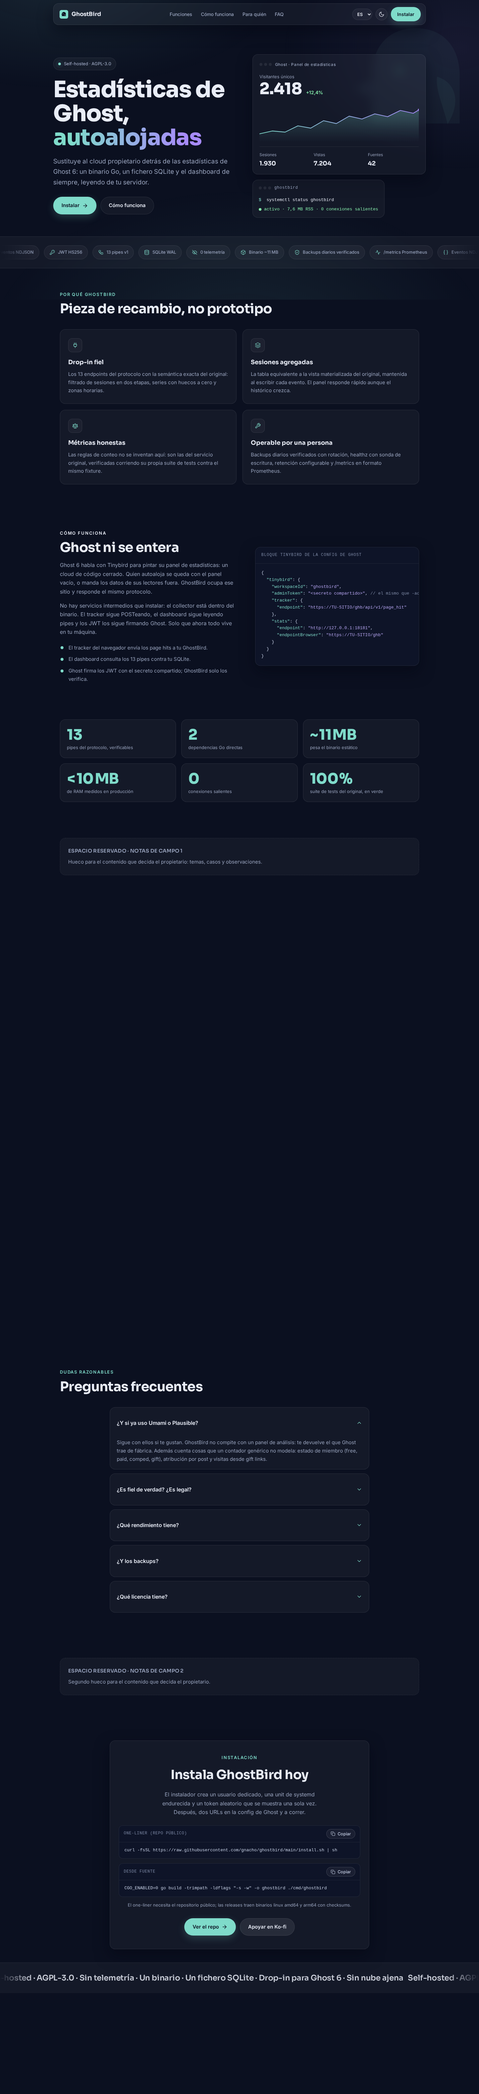
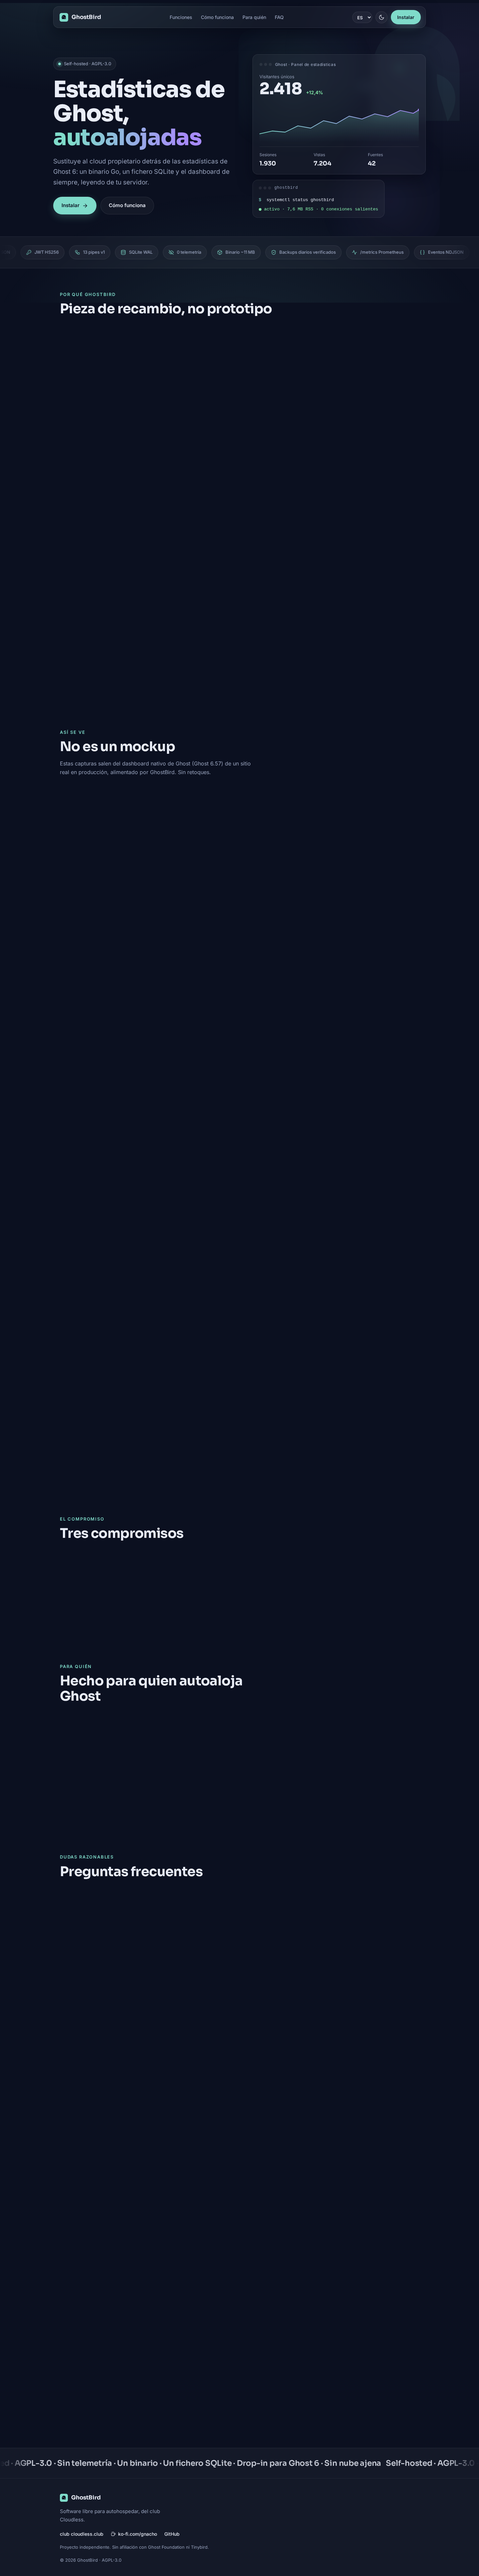
docs(landing): DESIGN.md con el sistema de motion y la galeria; screenshot nuevo
Seccion Motion (Phase 3): personalidad Premium/Corporate, variables,
tabla de grupos con stagger y presupuestos, capas de motion, decision
de no animar sombras, reduced-motion y lightbox. Galeria documentada
en la tabla Luminex y en SEO (ImageObject). Screenshot fullPage
regenerado (1440x7737, dark ES).

diff --git a/landing/DESIGN.md b/landing/DESIGN.md
@@ -21,6 +21,7 @@ Fuente de verdad visual de la landing. Si CSS y este fichero divergen, manda est
 | Logo marquee de clientes | Marquee de "protocol facts" (chips glass con icono Lucide): NDJSON, JWT HS256, 13 pipes, SQLite WAL, 0 telemetría, ~11 MB, backups, /metrics |
 | "A strong foundation" features | Grid 2x2 de feature cards glass: Drop-in fiel / Sesiones agregadas / Métricas honestas / Operable por una persona |
 | Split texto+visual | "Ghost ni se entera": texto a la izquierda, config tinybird JSON en card glass oscura con sintaxis coloreada a la derecha |
+| Galería de capturas | "No es un mockup": 2 capturas reales del dashboard nativo de Ghost (Ghost 6.57) en producción, cards glass con marco browser (3 dots + dominio), lazy loading y lightbox accesible |
 | Stats counters | 6 contadores con count-up al entrar en viewport (IntersectionObserver): 13 pipes, 2 deps Go, ~11 MB, <10 MB RAM, 0 salientes, 100% tests |
 | Statement tipográfico grande | "El panel de analytics que ya tienes, alimentado por tu servidor." con gradiente en "ya tienes" |
 | Expertise 3 columnas | Tres compromisos: AGPL para siempre / Community driven / Los datos no salen |
@@ -58,10 +59,66 @@ Fuente de verdad visual de la landing. Si CSS y este fichero divergen, manda est
   gigante flotando en el hero (fill al 5% del cian), favicon con la nueva paleta.
 - **Iconografía**: sprite SVG local de Lucide (24px, stroke 1.75), sin CDN ni
   dependencias JS externas.
-- **Motion**: reveal sutil al scroll (10px, 220ms), marquee infinito (38s
-  lineal), levitación del pájaro (9s), pulse-dot del eyebrow, count-up con
+- **Motion**: ver §Motion (sistema unificado de entrada). Marquee infinito
+  (38s lineal), levitación del pájaro (9s), pulse-dot del eyebrow, count-up con
   ease-out cúbico (1.1s), acordeón con grid-rows (280ms). Todo congelado con
   `prefers-reduced-motion`; el marquee pasa a scroll manual.
+
+## Motion (Phase 3: sistema unificado de entrada)
+
+Personalidad **Premium** para las entradas; **Corporate** para el
+micro-feedback. Un solo sistema (`[data-reveal]` + `.rv`/`.in`/`.done` en
+`app.js`/`styles.css`), sin convivencia con el reveal del datasheet.
+
+**Variables CSS** (en `:root`, fuente de verdad):
+
+| Variable | Valor | Uso |
+|---|---|---|
+| `--dur-enter` | `420ms` | Duración de entrada (Premium 350-600ms) |
+| `--ease-enter` | `cubic-bezier(0.4, 0, 0.2, 1)` | Curva de entrada (decelerate, 0% overshoot) |
+| `--stagger` | `80ms` | Separación entre hermanos de un grupo |
+| `--enter-y` | `22px` | Distancia de entrada (soft: 8px) |
+| `--dur-feedback` | `90ms` | Respuesta de hover (Corporate, < 100ms) |
+
+Entrada = position + opacity (nunca solo opacity), dirección siempre desde
+abajo. El stagger es `calc(var(--i) * --stagger)` con `--i` asignado por JS
+según el orden dentro del `[data-reveal-group]`.
+
+**Grupos y tiempos** (presupuesto de stagger = último delay, siempre < 500ms):
+
+| Grupo | Items | Stagger | Último delay | Notas |
+|---|---|---|---|---|
+| Hero (al load) | 5 | 60ms | 240ms | Override local `--dur-enter: 350ms`; eyebrow → headline → sub → CTAs → mockup; total < 600ms |
+| Features 2x2 | 4 | 80ms | 240ms | translateY 22px + opacity |
+| Split cómo funciona | 2 | 80ms | 80ms | Copía y card de código |
+| Galería | 2 | 80ms | 80ms | Cards glass con marco browser |
+| Stats | 6 | 80ms | 400ms | El count-up mantiene su propio IO (threshold 0.35) y manda el momento |
+| Statement | 1 | - | 0ms | Soft (8px) |
+| Tres compromisos | 3 | 80ms | 160ms | Columnas |
+| Para quién | 4 | 80ms | 240ms | Dirección consistente (desde abajo) |
+| FAQ | 5 | 60ms | 240ms | Soft (opacity + 8px) |
+| Slots / install | 1 c/u | - | 0ms | Cards sueltas |
+
+**Capas de motion** (skill motion-design):
+- Primaria: la entrada de las cards.
+- Secundaria: hover Premium en cards glass (`.rv.done:hover`: lift 3px + borde
+  acento, 90ms). El perfil de hover solo se activa cuando la entrada termina
+  (`.done` vía `transitionend`), para no pisar la transición de entrada.
+- Ambiente: respiración del glow tras el mockup del hero
+  (`gb-breathe`, 7s ease-in-out, opacidad 0.45 → 0.9). Nada más.
+
+**Sin animar**: chips del marquee (el marquee ya vive), nav, footer, section
+heads. Se descartó la sombra "que llega después" en las feature cards: las
+glass no llevan sombra en reposo (regla de una sola sombra por card elevada) y
+animarla pagaría un repaint por el que no aportaba.
+
+**Reduced motion**: todo visible sin transición (`.rv` estático + kill global
+de duraciones), lightbox instantáneo, sin cuenta atrás en el count-up.
+
+**Lightbox** (Corporate): overlay `rgba(4,7,18,.86)`, cierre con Escape, clic
+fuera y botón; entrada 220/260ms decelerate, salida 150ms accelerate
+(`[hidden]` de vuelta al terminar). `role="dialog"` + `aria-modal`, foco al
+botón de cerrar y devolución al disparador.
 
 ## Craft layer (Phase 2)
 
@@ -76,7 +133,7 @@ Fuente de verdad visual de la landing. Si CSS y este fichero divergen, manda est
   targets ≥36px; aria-labels i18n; mockup decorativo con aria-hidden; 1 h1.
 - **SEO**: title/description ES/EN, OG/Twitter con og.png real (1200x630),
   canonical + hreflang es/en/x-default, JSON-LD SoftwareApplication +
-  Organization + FAQPage, robots.txt, sitemap.xml.
+  Organization + 2 ImageObject (capturas) + FAQPage, robots.txt, sitemap.xml.
 - **i18n**: diccionario único `i18n.js` (ES/EN paridad verificada por script),
   auto por navegador + `?hl=` + localStorage `ghostbird-lang`; selector ES/EN.
 - **Temas**: dark por defecto (Luminex es dark-first); toggle sol/luna con
@@ -99,3 +156,7 @@ Fuente de verdad visual de la landing. Si CSS y este fichero divergen, manda est
 - 2026-08-17: rediseño completo a tema Luminex adaptado por decisión del
   propietario (rama feat/landing-luminex). Copy reutilizado y reorganizado
   a claves nuevas; SEO, favicon-pájaro, slots y verificación conservados.
+- 2026-08-17: sistema unificado de entrada Premium con stagger y hover
+  Corporate (rama feat/landing-motion) + galería "No es un mockup" con
+  capturas reales del dashboard y lightbox accesible. og.png sin cambios
+  (el hero no cambia); screenshot.png regenerado.
